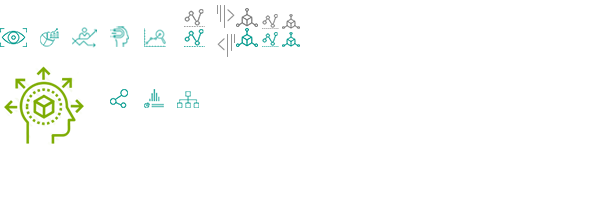
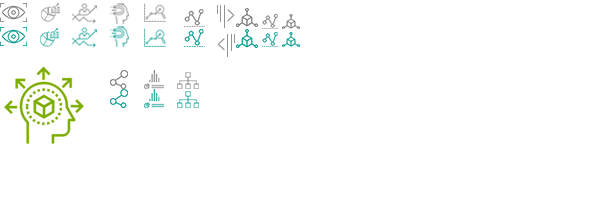
Overview Navigation Changes

diff --git a/static/react/src/assets/sentimentAnalysis.html b/static/react/src/assets/sentimentAnalysis.html
@@ -1,0 +1,141 @@
+<!DOCTYPE html>
+<html lang="en">
+   <head>
+      <meta charset="utf-8">
+      <meta http-equiv="X-UA-Compatible" content="IE=edge">
+      <meta name="viewport" content="width=device-width, initial-scale=1">
+      <meta name="description" content="">
+      <meta name="author" content="">
+      <link rel="icon" href="images/favicon.ico">
+      <title>mAdvisor Settings Page</title>
+      <!-- Bootstrap core CSS -->
+      <link href="css/bootstrap.min.css" rel="stylesheet">
+      <!-- HTML5 shim and Respond.js for IE8 support of HTML5 elements and media queries -->
+      <!--[if lt IE 9]>
+      <script src="https://oss.maxcdn.com/html5shiv/3.7.3/html5shiv.min.js"></script>
+      <script src="https://oss.maxcdn.com/respond/1.4.2/respond.min.js"></script>
+      <![endif]-->
+      <!-- Custom styles for this template 
+         <link href="css/nanoscroller.css" rel="stylesheet">-->
+      <link href="css/style.css" rel="stylesheet">
+   </head>
+   <body>
+      <!-- Main Wrapper ** Mandatory -->
+      <div class="main_wrapper">
+         <!-- Header Menu -->
+         <nav class="navbar navbar-default navbar-fixed-top" role="navigation">
+            <!-- Brand and toggle get grouped for better mobile display -->
+            <div class="navbar-header">
+               <div class="brand-wrapper">
+                  <!-- Hamburger -->
+                  <button type="button" class="navbar-toggle"> <span class="sr-only">Toggle navigation</span> <span class="icon-bar"></span> <span class="icon-bar"></span> <span class="icon-bar"></span> </button>
+                  <!-- Brand -->
+                  <div class="brand-name-wrapper"> <a class="navbar-brand" href="#"></a> </div>
+               </div>
+            </div>
+            <div class="dropdown ma-user-nav">
+               <a class="dropdown-toggle" href="#" data-toggle="dropdown"> <i class="avatar-img img-circle">M</i> <img src="images/avatar.jpg" alt="M" class="avatar-img img-circle hide"><span class="user-name">Marlabs BI</span> <span class="caret"></span></a>
+               <ul class="dropdown-menu dropdown-menu-right">
+                  <li><a href="profile.html">Profile</a></li>
+                  <li><a href="login.html">Logout</a></li>
+               </ul>
+            </div>
+            <div class="clearfix"></div>
+         </nav>
+         <!--/.Header Menu --> 
+         <!-- Side bar Main Menu -->
+         <div class="side-menu">
+            <div class="side-menu-container">
+               <ul class="nav navbar-nav">
+                  <li><a href="dashboard.html" class="sdb_signal"> <span></span> SIGNAL</a></li>
+                  <li><a href="story.html" class="sdb_story"> <span></span> STORY</a></li>
+                  <li><a href="#" class="sdb_app"> <span></span> APPS</a></li>
+                  <li><a href="data.html" class="sdb_data"> <span></span> DATA</a></li>
+                  <li><a href="settings.html" class="sdb_settings"> <span></span> SETTINGS</a></li>
+               </ul>
+            </div>
+            <!-- /.Side bar Main Menu  --> 
+         </div>
+         <!-- ./Side bar Main Menu --> 
+         <!-- Main Content starts with side-body -->
+         <div class="side-body">
+            <!-- Page Title and Breadcrumbs -->
+            <div class="page-head">
+               <!-- <ol class="breadcrumb">
+                  <li><a href="#">Story</a></li>
+                  <li class="active">Sales Performance Report</li> 
+                  </ol> -->
+               <div class="row">
+                  <div class="col-md-8">
+                     <h2>Sentiment analysis – Sample.mp3
+</h2>
+                  </div>
+               </div>
+            </div>
+            <!-- /.Page Title and Breadcrumbs --> 
+            <!-- Page Content Area -->
+            <div class="main-content">
+               <div class="main-content">
+                  <div class="row">
+                     <div class="col-md-12 content">
+                        <div class="panel panel-mAd">
+                           <div class="panel-heading">
+                              <h2>Sentiment analysis – Sample.mp3</h2>
+                              <div class="clearfix"></div>
+                           </div>
+							<div class="panel-body">
+							<p>mAdvisor has analysed the sound file and come out with the following analysis:
+</p>
+							<div class="xs-p-5"></div>
+							<div class="row">
+								<div class="col-md-4">
+                                       <div class="panel panel-borders">
+									   <h3>Overall Sentiment</h3>
+									   </div>
+                                </div>
+								<div class="col-md-8">
+									<div class="panel panel-borders">
+									  <h3>Emotions</h3>
+									  <div class="row">
+										<div class="col-md-3 col-md-offset-1">
+											Joy
+										</div>
+										<div class="col-md-3">
+											Anger
+										</div>
+										<div class="col-md-3">
+											Sadness
+										</div>
+										<div class="clearfix"></div>
+										<div class="col-md-3 col-md-offset-2">
+											Fear
+										</div>
+										<div class="col-md-3">
+											Disgust
+										</div>
+									  </div>
+									</div>
+								</div>
+
+							</div>
+							</div>
+                          
+                           </div>
+                        </div>
+                     </div>
+                  </div>
+               </div>
+            </div>
+            <!-- /.Page Content Area --> 
+         </div>
+         <!-- /. Main Content ends with side-body -->
+      </div>
+      <!-- /. Main Wrapper ** Mandatory --> 
+      <!-- Bootstrap core JavaScript
+         ================================================== --> 
+      <!-- Placed at the end of the document so the pages load faster --> 
+      <script src="https://ajax.googleapis.com/ajax/libs/jquery/1.12.4/jquery.min.js"></script> 
+      <script src="js/bootstrap.min.js"></script>
+      <script src="js/uiScripts.js"></script>
+   </body>
+</html>

diff --git a/static/react/src/assets/css/style.css b/static/react/src/assets/css/style.css
@@ -13849,7 +13849,10 @@ background:#ededed; color:#7dac02
 .panel-mAd .panel-body { padding:0;}
 .panel-mAd div h2 small { font-size:50%; }
 /** For Card Tabs **/
-.panel-mAd .nav-tabs { background: #00bfb2;}
+.panel-mAd .nav-tabs {
+    background: #ffffff;
+    border-bottom: 1px solid #e8e8e8;
+}
  /*.full-width-tabs > ul.nav.nav-tabs {
    display: table;
     width: 100%;
@@ -13863,12 +13866,14 @@ box-shadow: 0px 6px 9px 0px rgba(240,255,246,1);  }
     float: none;
     display: table-cell;
 }
-.full-width-tabs > ul.nav.nav-tabs > li > a { text-align: center; padding: 8px; text-transform: capitalize; display: block; border-top:2px solid #00bfb2; border-left:2px solid #00bfb2; color:#FFFFFF; text-transform:uppercase}
+.full-width-tabs > ul.nav.nav-tabs > li > a { text-align: center; padding: 8px; text-transform: capitalize; display: block;/* border-top:2px solid #00bfb2; border-left:2px solid #00bfb2;  color:#FFFFFF; */text-transform:uppercase}
 
 .panel-mAd .nav-tabs { background;none; }
 .full-width-tabs > ul.nav.nav-tabs > li.active a, .full-width-tabs > ul.nav.nav-tabs > li > a.active {
-	color:#00998c;
-	background:#FFFFFF;
+    color: #00998c;
+    /* background: #00998c; */
+    /* border: 1px solid #00998c; */
+    border-bottom: 2px solid #00998c;
 }
 /*.panel-mAd .full-width-tabs > ul.nav.nav-tabs > li > a   span { display:block; }*/
 
@@ -13879,12 +13884,12 @@ box-shadow: 0px 6px 9px 0px rgba(240,255,246,1);  }
 .mAd_icons.ic_dime_s { background-position:-281px -11px }
 
 .mAd_icons.tab_overview{ background-position: 0 -3px;}
-.nav-tabs li a:hover .mAd_icons.tab_overview, .active .mAd_icons.tab_overview { background-position: 0 -28px;}
+.nav-tabs li a:hover .mAd_icons.tab_overview, .active .mAd_icons.tab_overview { background-position: 0 -27px;}
 
 .mAd_icons.tab_summary{ background-position: -142px -70px}
 .nav-tabs li a:hover .mAd_icons.tab_summary, .active .mAd_icons.tab_summary { background-position: -142px -100px}
 
-.mAd_icons.tab_decision-tree, .mAd_icons.tab_prediction{  background-position: -144px -4px;}
+.mAd_icons.tab_decision-tree, .mAd_icons.tab_prediction{  background-position: -144px -5px;}
 .nav-tabs li a:hover .mAd_icons.tab_decision-tree, .nav-tabs li a:hover .mAd_icons.tab_prediction, .active .mAd_icons.tab_decision-tree, .active .mAd_icons.tab_prediction { background-position: -144px -30px;}
 
 
@@ -13892,19 +13897,19 @@ box-shadow: 0px 6px 9px 0px rgba(240,255,246,1);  }
 .nav-tabs li a:hover .mAd_icons.tab_chi-square, .nav-tabs li a:hover .mAd_icons.tab_association, .active .mAd_icons.tab_chi-square, .active .mAd_icons.tab_association { background-position: -108px -89px}
 
 .mAd_icons.tab_performance { background-position: -35px -3px;}
-.nav-tabs li a:hover .mAd_icons.tab_performance, .active .mAd_icons.tab_performance{ background-position: -35px -30px;}
+.nav-tabs li a:hover .mAd_icons.tab_performance, .active .mAd_icons.tab_performance{ background-position: -34px -28px;}
 
 .mAd_icons.tab_trend  { background-position: -70px -3px;}
 .nav-tabs li a:hover .mAd_icons.tab_trend,.active .mAd_icons.tab_trend { background-position: -70px -27px;}
 
-.mAd_icons.tab_influencers { background-position: -108px -3px; }
+.mAd_icons.tab_influencers { background-position: -108px -4px; }
 .nav-tabs li a:hover .mAd_icons.tab_influencers, .active .mAd_icons.tab_influencers{ background-position: -108px -27px}
 .mAd_icons.tab_predictions { background-position: -144px 0px;}
 .nav-tabs li a:hover .mAd_icons.tab_predictions, .active .mAd_icons.tab_predictions{ background-position: -144px -30px;}
 .mAd_icons.oppr_icon { width: 80px; height: 80px; background-position: 0 -65px; margin: 0 auto; }
 
-.mAd_icons.ic_perf { width: 26px; height: 22px; background-position: -234px -5px; display: inline-block; margin: 0 5px 0 5px; vertical-align: middle; }
-a.active .mAd_icons.ic_perf,.mAd_icons.ic_perf.active { background-position: -235px -27px; margin-right: 5px;}
+.mAd_icons.ic_perf { width: 26px; height: 22px; background-position: -236px -6px; display: inline-block; margin: 0 5px 0 5px; vertical-align: middle; }
+a.active .mAd_icons.ic_perf,.mAd_icons.ic_perf.active { background-position: -236px -27px; margin-right: 5px;}
 .mAd_icons.ic_inflnce { width: 26px; height: 22px; margin: 0 auto; background-position: -184px -5px; display: inline-block;}
 a.active .mAd_icons.ic_inflnce, .mAd_icons.ic_inflnce.active { background-position: -184px -27px; margin-right: 5px;}
 
@@ -13991,10 +13996,8 @@ a.tabs-control.right span { right: 5px; }
 /** slide panel **/
 .panel-mAd .tab-pane { overflow:hidden; }
 .sb_navigation {
-    background: #FFFFFF;
-    border-left: 1px solid #00bfb2;
-    border-right: 1px solid #00bfb2;
-    border-bottom: 1px solid #00bfb2;
+    background: #FFFFFF; 
+    border-bottom: 1px solid #e8e8e8;
 }
 .sb_navigation li a { padding: 7px; /* margin: 0 5px; text-align: center; */ display: block; color:#636363; }
 .sb_navigation li a span {white-space: nowrap; width: 156px; overflow: hidden; text-overflow: ellipsis; display: inline-block; vertical-align: middle; }
@@ -14500,7 +14503,7 @@ a.disabled { color:#ccc !important; }
 .img-responsive.img-center { margin:0 auto; }
 .user-info h3 { margin-top:6px; }
 .user-profile small { text-transform:uppercase; color:#333333; font-size: 50% }
- 
+.slick-prev, .slick-next {border:0;}
 /**************** Css realated to developers, keep the source down ***/
 
 

diff --git a/static/react/src/assets/data_preview.html b/static/react/src/assets/data_preview.html
@@ -297,7 +297,7 @@
                      </div>
 					 <!-- ./ End Tab Visualizations -->
 					 
-					 <!-- Start Tab Subsettings - ->
+					 <!-- Start Tab Subsettings -->
 					 <div id="tab_subsettings" class="panel-group accordion accordion-semi">
                         <div class="panel panel-default">
                            <div class="panel-heading">
@@ -345,11 +345,13 @@
       <!-- Placed at the end of the document so the pages load faster --> 
       <script src="https://ajax.googleapis.com/ajax/libs/jquery/1.12.4/jquery.min.js"></script> 
       <script src="js/bootstrap.min.js"></script>
-      
+      <script src="js/bootstrap-slider.js"></script>
 	  <style>
 	  .hover { border:2px solid blue; }
 	  </style>
+	  
       <script>
+	  $('.bslider').slider();
 $("table").delegate('td','mouseover mouseleave', function(e) {
     if (e.type == 'mouseover') {
      // $(this).parent().addClass("hover");
